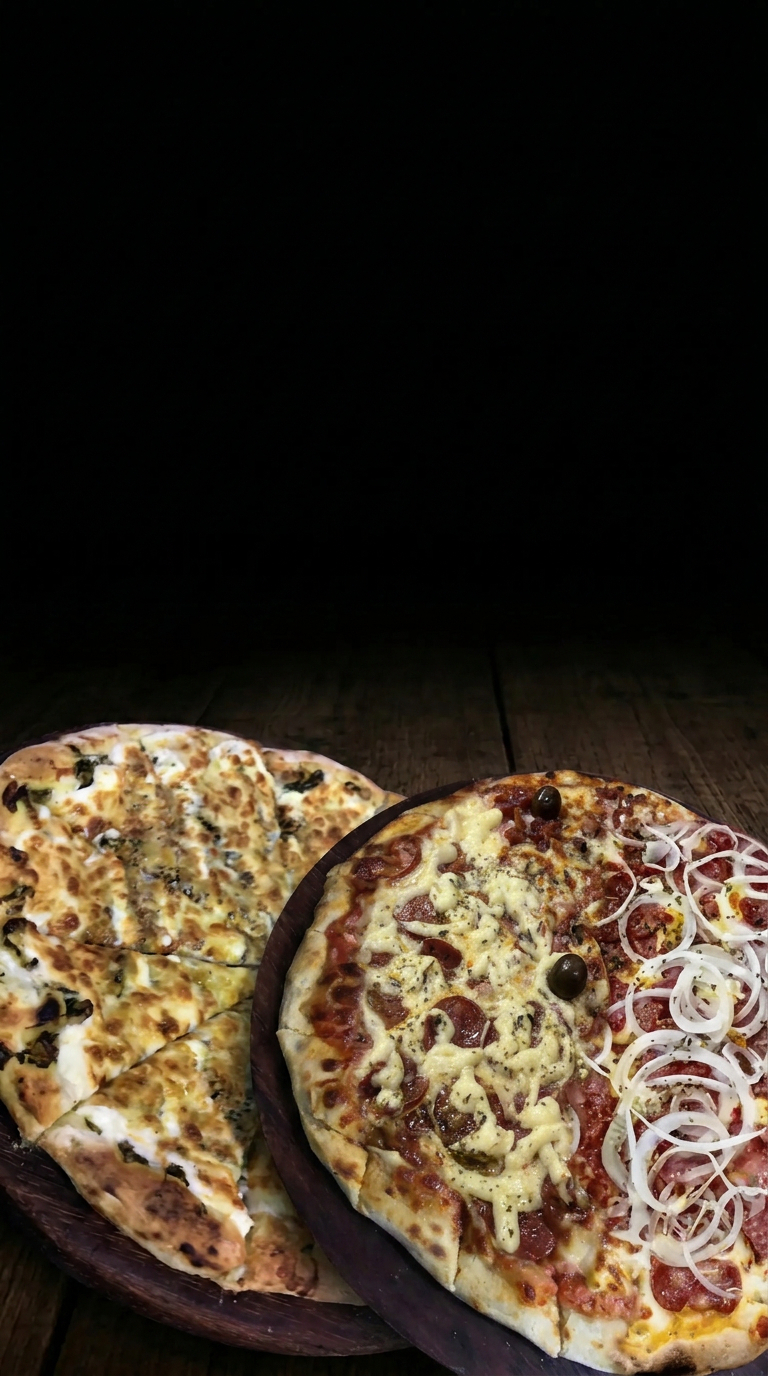
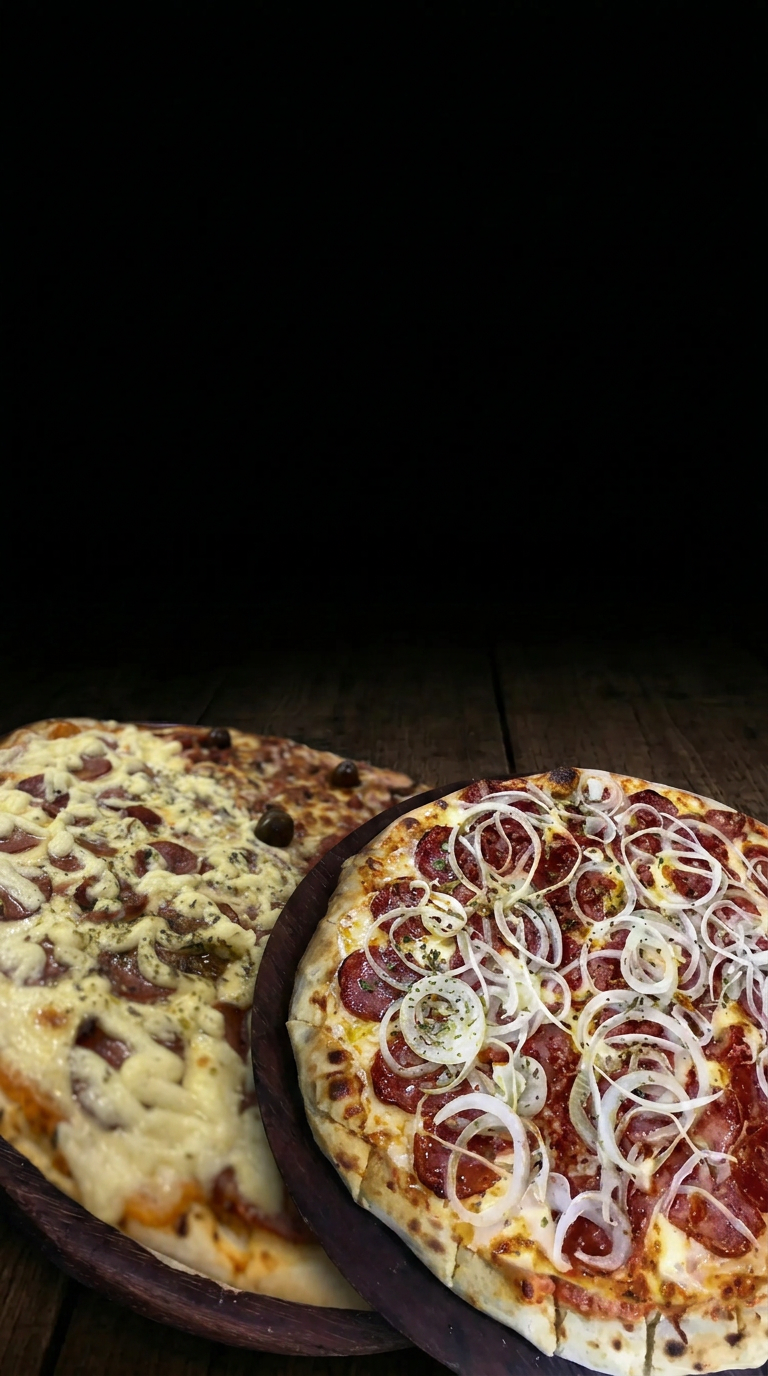
fix: fundo hero sem query string no Image (Next 16) e asset atualizado
Made-with: Cursor

diff --git a/src/components/LaStradaLanding.tsx b/src/components/LaStradaLanding.tsx
@@ -30,6 +30,7 @@ export function LaStradaLanding() {
         alt=""
         fill
         priority
+        unoptimized
         className="object-cover object-bottom pointer-events-none select-none"
         sizes="100vw"
       />
@@ -43,7 +44,7 @@ export function LaStradaLanding() {
       </p>
 
       <div className="relative z-10 flex flex-col items-center justify-start px-6 pt-10 text-center">
-               <h1
+        <h1
           className="max-w-sm text-[2.125rem] font-extrabold leading-[1.1] tracking-wide text-white sm:max-w-md sm:text-5xl sm:leading-[1.08]"
           style={{ fontFamily: "var(--font-playfair), serif" }}
         >